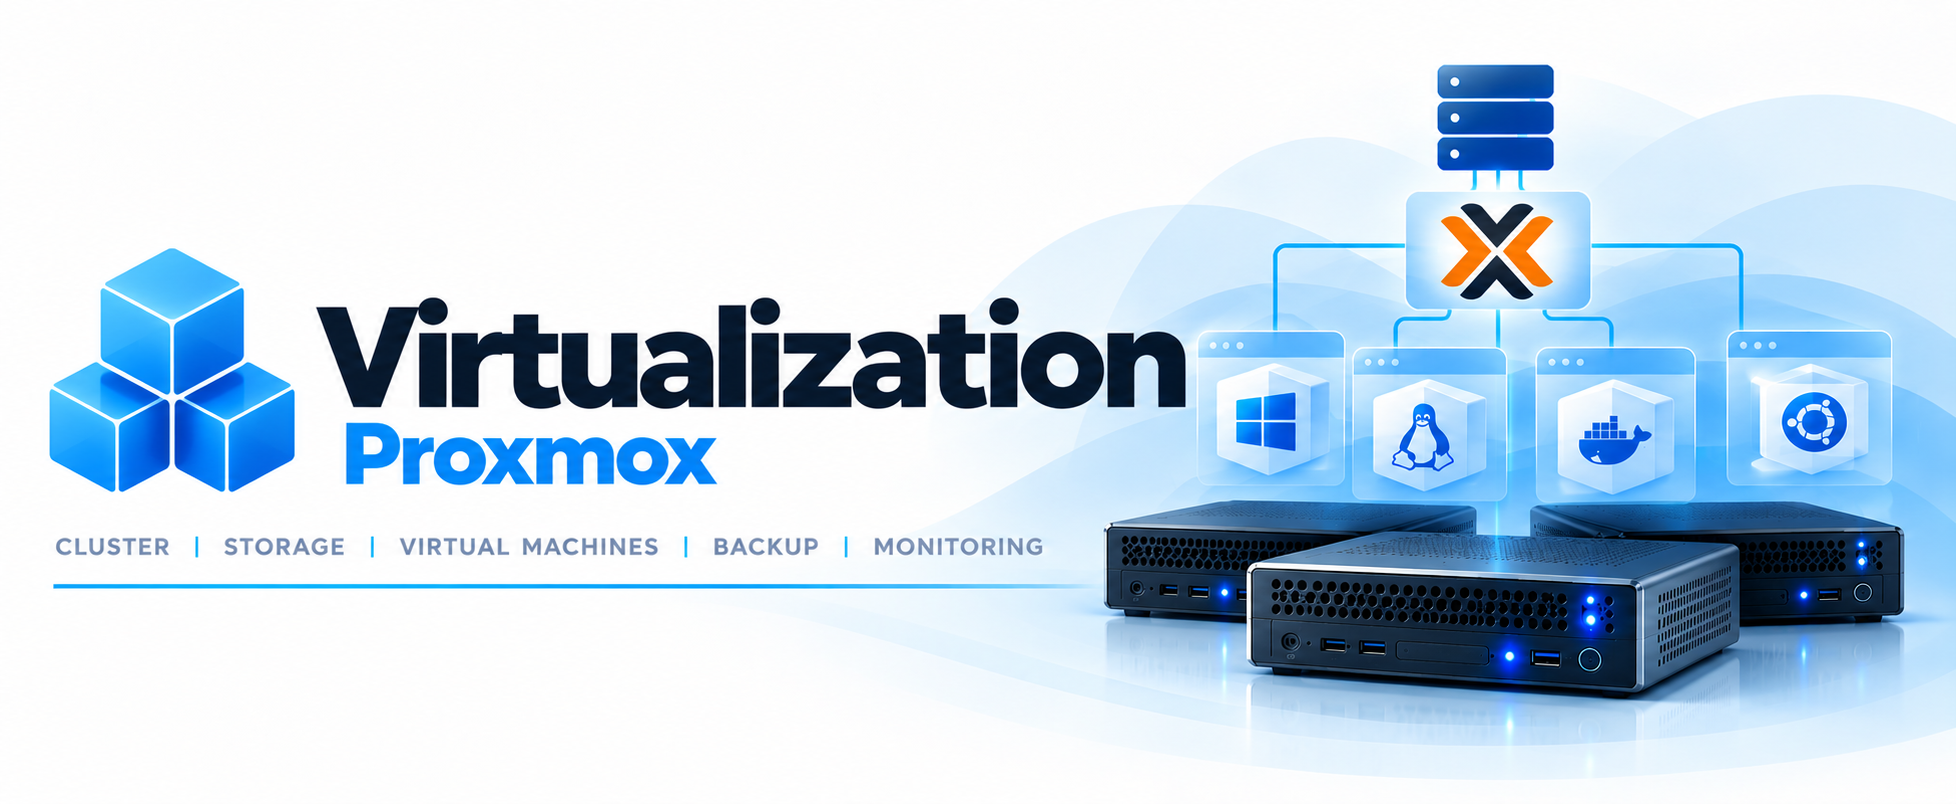
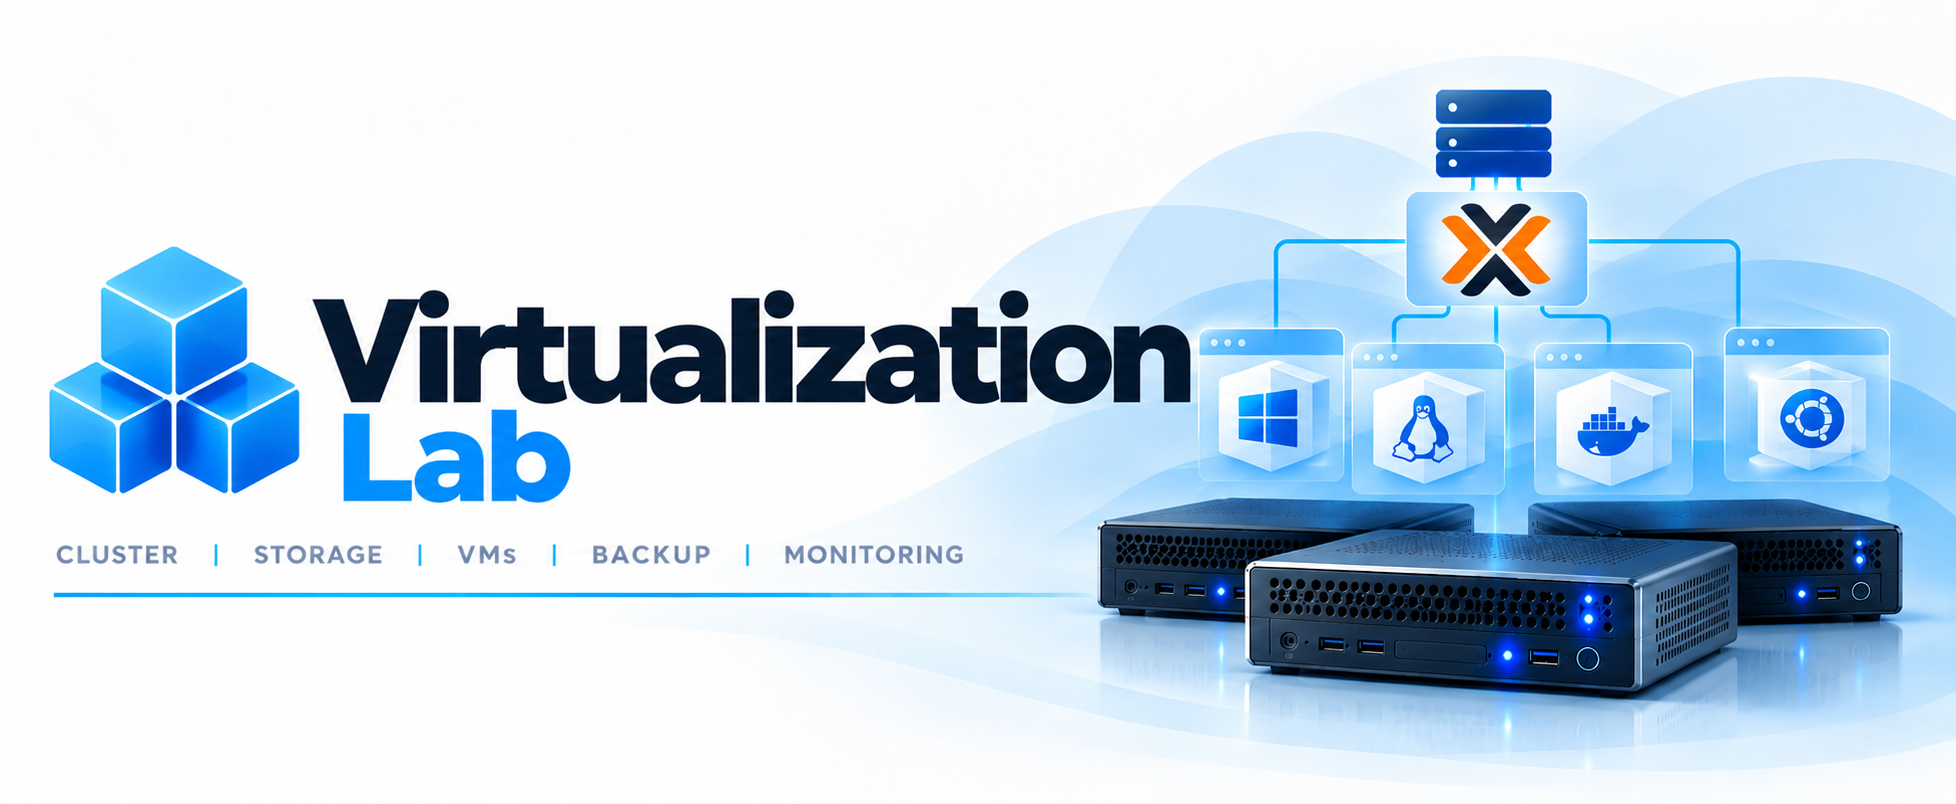
updated virtualization lab docs

diff --git a/projects/virtualization-lab/README.md b/projects/virtualization-lab/README.md
@@ -1,6 +1,6 @@
-# Virtualization Lab
+# 🧊 Virtualization Lab
 
-![Virtualization Banner](./diagrams/virtualization-banner.png)
+<img src="./diagrams/virtualization-banner.png" alt="Virtualization Banner" width="900">
 
 **Status: 🟢 Operational**
 
@@ -142,7 +142,7 @@ underlying storage devices remain local to their respective hosts.
 
 Detailed storage architecture is documented separately:
 
-➡ [Proxmox Storage](./proxmox-storage.md)
+➡ [Proxmox Storage](./storage-configuration.md)
 
 
 
@@ -163,7 +163,7 @@ as a single shared resource pool.
 
 Detailed host capacity and workload allocation are documented separately:
 
-➡ [Proxmox Resource Allocation](./proxmox-resource-allocation.md)
+➡ [Proxmox Resource Allocation](./resource-allocation.md)
 
 
 
@@ -222,10 +222,10 @@ recovery testing.
 ## Documentation
 
 - [Proxmox Cluster](./proxmox-cluster.md)
-- [Proxmox Storage](./proxmox-storage.md)
-- [Proxmox Resource Allocation](./proxmox-resource-allocation.md)
+- [Proxmox Storage](./storage-configuration.md)
+- [Proxmox Resource Allocation](./resource-allocation.md)
 - [Proxmox Host Baseline Build](../../docs/reference/proxmox/proxmox-debian-vm-template.md)
-- [Proxmox VM Deployment Baseline](./proxmox-vm-deployment.md)
+- [Proxmox VM Deployment Baseline](./vm-deployment.md)
 - [Troubleshooting](./troubleshooting.md)
 - [Lessons Learned](./lessons-learned.md)
 
@@ -241,23 +241,6 @@ This virtualization environment provides infrastructure for:
 - [Infrastructure Monitoring](../infrastructure-monitoring/)
 - [Security Operations Lab](../security-operations/)
 - [Infrastructure Automation](../infrastructure-automation/)
-
-
-
-## Folder Structure
-
-```text
-virtualization-lab/
-├── README.md
-├── proxmox-cluster.md
-├── proxmox-host-build.md
-├── proxmox-resource-allocation.md
-├── proxmox-storage.md
-├── proxmox-vm-deployment.md
-├── lessons-learned.md
-├── troubleshooting.md
-└── diagrams/
-```
 
 
 

diff --git a/README.md b/README.md
@@ -113,7 +113,7 @@ Functionally, the environment is organized into several infrastructure domains:
 | [Microsoft Intune Lab](projects/microsoft-intune/) | Intune, Autopilot, MDM, compliance, app deployment | 🟡 In Progress |
 | [Network Infrastructure](projects/network-infrastructure/) | Routing, switching, DHCP, DNS, and network services | 🟢 Operational |
 | [Network Security](projects/network-security/) | Firewall, DNS security, VPN, network segmentation | 🟢 Operational |
-| [Proxmox Virtualization Lab](projects/proxmox-virtualization-lab/) | Proxmox, VM lifecycle, lab foundation | 🟢 Operational |
+| [Virtualization Lab](projects/virtualization-lab/) | Proxmox, VM lifecycle, lab foundation | 🟢 Operational |
 | [Security Operations](projects/security-operations/) | SIEM, detection engineering, incident response | ⚪ Planned |
 | [Web Platform & Secure Delivery](projects/web-platform/) | Astro, Cloudflare Workers, CI/CD, web security, DNS | 🟢 Operational |
 

diff --git a/projects/README.md b/projects/README.md
@@ -24,7 +24,7 @@ Hands-on projects that make up the **enterprise-homelab** environment. Each proj
 | [Microsoft Intune Lab](./microsoft-intune/) | Intune, Autopilot, MDM, compliance, app deployment | 🟡 In Progress |
 | [Network Infrastructure](./network-infrastructure/) | Routing, switching, VLANs, DNS/DHCP | 🟢 Operational |
 | [Network Security](./network-security/) | Firewalls, segmentation, VPN, access security, system hardening | 🟢 Operational |
-| [Proxmox Virtualization Lab](./proxmox-virtualization-lab/) | Proxmox, VM lifecycle, lab foundation | 🟢 Operational |
+| [Virtualization Lab](./virtualization-lab/) | Proxmox, VM lifecycle, lab foundation | 🟢 Operational |
 | [Security Operations](./security-operations/) | SIEM, detection engineering, incident response | ⚪ Planned |
 | [Web Platform & Secure Delivery](projects/web-platform/) | Astro, Cloudflare Workers, CI/CD, web security, DNS | 🟢 Operational |
 

diff --git a/docs/standards/vm-deployment-standard.md b/docs/standards/vm-deployment-standard.md
@@ -27,7 +27,7 @@ CPU, memory, and storage should be sized according to workload requirements whil
 
 For resource planning guidance, see:
 
-- [Proxmox Resource Allocation](../reference/proxmox/proxmox-resource-allocation.md)
+- [Proxmox Resource Allocation](../reference/proxmox/resource-allocation.md)
 
 ## Operating System Baselines
 

diff --git a/projects/virtualization-lab/06-proxmox-cluster.md b/projects/virtualization-lab/06-proxmox-cluster.md
@@ -45,7 +45,7 @@ maintain quorum with two available nodes.
 
 Detailed host capacity and workload allocation are documented in the resource allocation doc:
 
-➡ [Proxmox Resource Allocation](proxmox-resource-allocation.md)
+➡ [Proxmox Resource Allocation](resource-allocation.md)
 
 
 ## Cluster Nodes
